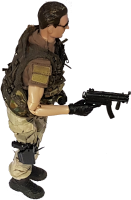
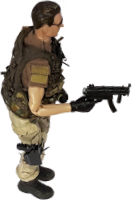
Configured bullet offsets for player 1 and 2

Changed region(s): [[0.0, 0.0, 1.0, 1.0], [0.1527, 0.27, 0.1832, 0.3]]

diff --git a/src/game/Bullet.ts b/src/game/Bullet.ts
@@ -21,17 +21,16 @@ function buildBulletOffsetForPlayer0(): Map<Directions, Point> {
   return result;
 }
 
-// TODO: Fix offsets
 function buildBulletOffsetForPlayer1(): Map<Directions, Point> {
   const result = new Map<Directions, Point>();
-  result.set(Directions.Up, { x: 45, y: -BULLET_HEIGHT });
-  result.set(Directions.UpRight, { x: 45, y: -BULLET_HEIGHT });
-  result.set(Directions.Right, { x: 90, y: 100 });
-  result.set(Directions.DownRight, { x: 90, y: 100 });
-  result.set(Directions.Down, { x: 45, y: 200 });
-  result.set(Directions.DownLeft, { x: -BULLET_WIDTH, y: 100 });
-  result.set(Directions.Left, { x: -BULLET_WIDTH, y: 100 });
-  result.set(Directions.UpLeft, { x: 0, y: -BULLET_HEIGHT });
+  result.set(Directions.Up, { x: 87, y: -(BULLET_HEIGHT + 40) });
+  result.set(Directions.UpRight, { x: 116, y: 9 });
+  result.set(Directions.Right, { x: 135, y: 52 });
+  result.set(Directions.DownRight, { x: 98, y: 100 });
+  result.set(Directions.Down, { x: 16, y: 160 });
+  result.set(Directions.DownLeft, { x: -(BULLET_WIDTH + 20), y: 57 });
+  result.set(Directions.Left, { x: -BULLET_WIDTH, y: 12 });
+  result.set(Directions.UpLeft, { x: -BULLET_WIDTH, y: -13 });
   return result;
 }
 

diff --git a/src/game/PlayerTileSets.ts b/src/game/PlayerTileSets.ts
@@ -190,7 +190,7 @@ function buildTileSetForPlayer1(): PlayerTileSet {
   );
   result.idle.set(
     Directions.DownRight,
-    new Tile("images/tiles/player-1/idle/down_right.png", 108, 200, 6, -50)
+    new Tile("images/tiles/player-1/idle/down_right.png", 92, 200, 6, -50)
   );
   result.idle.set(
     Directions.Left,
@@ -198,7 +198,7 @@ function buildTileSetForPlayer1(): PlayerTileSet {
   );
   result.idle.set(
     Directions.Right,
-    new Tile("images/tiles/player-1/idle/right.png", 131, 200, 0, -50)
+    new Tile("images/tiles/player-1/idle/right.png", 133, 200, 0, -50)
   );
   result.idle.set(
     Directions.Up,

diff --git a/locstats.md b/locstats.md
@@ -1,10 +1,10 @@
 
-cloc|github.com/AlDanial/cloc v 1.82  T=0.06 s (1955.8 files/s, 169806.1 lines/s)
+cloc|github.com/AlDanial/cloc v 1.82  T=0.08 s (1545.5 files/s, 134172.6 lines/s)
 --- | ---
 
 Language|files|blank|comment|code
 :-------|-------:|-------:|-------:|-------:
-TypeScript|85|817|202|8789
+TypeScript|85|817|201|8789
 CSS|27|78|0|528
 Markdown|7|55|0|150
 JavaScript|1|12|31|98
@@ -13,4 +13,4 @@ YAML|2|2|0|26
 JSON|1|0|0|22
 Bourne Shell|1|3|3|9
 --------|--------|--------|--------|--------
-SUM:|125|967|236|9650
+SUM:|125|967|235|9650
